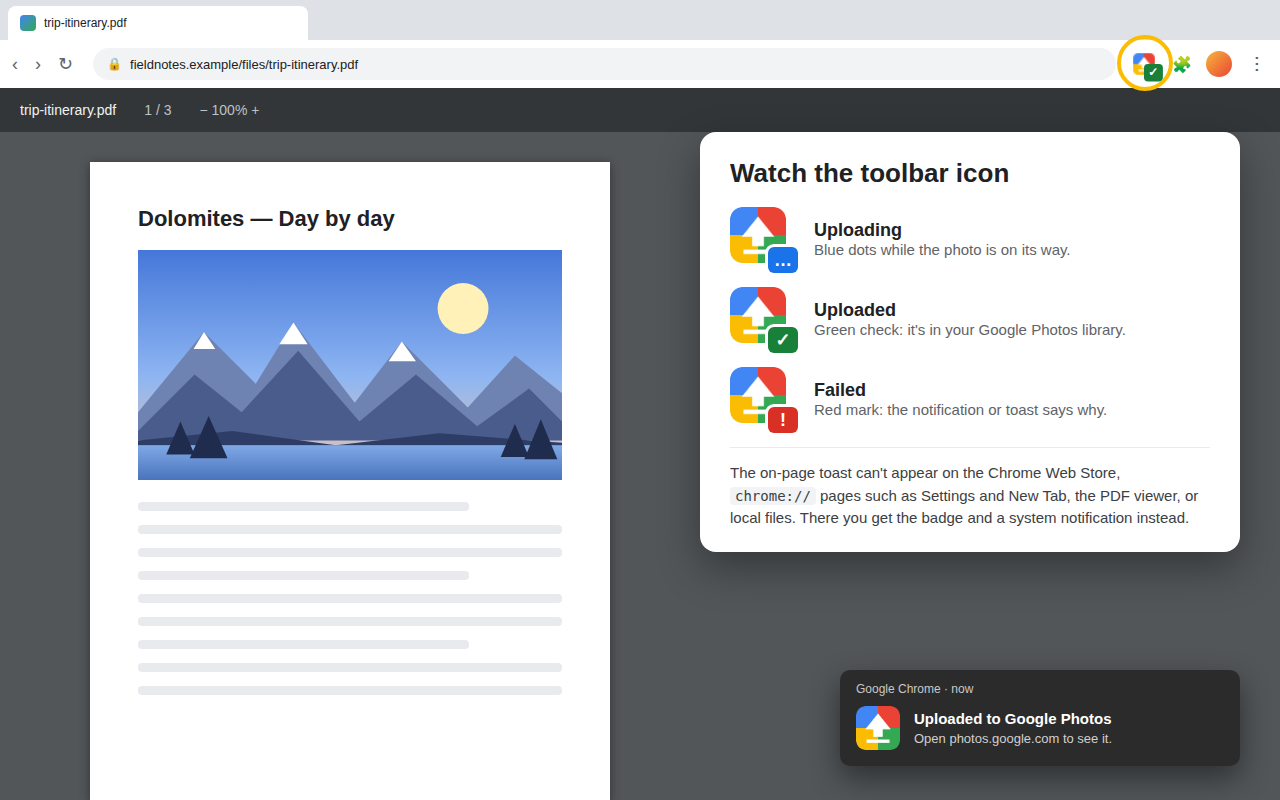
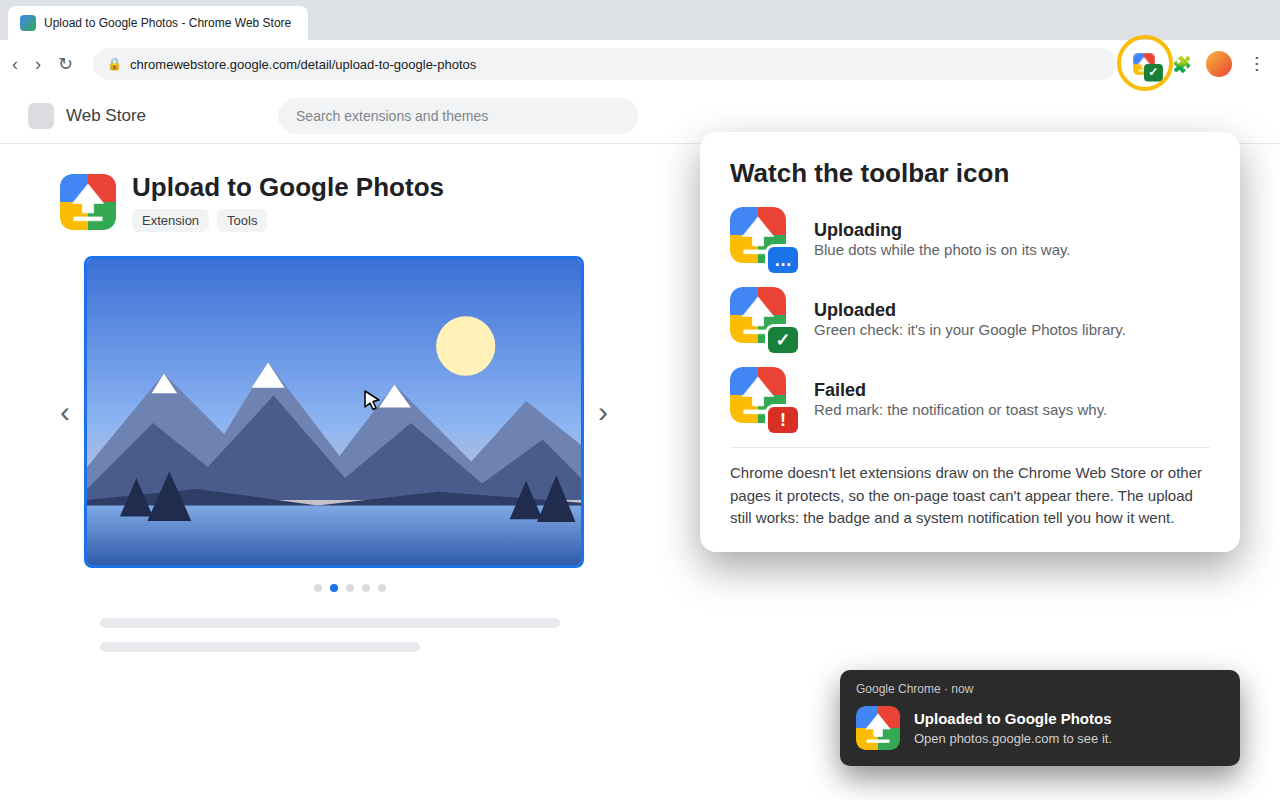
Status screenshot: use the Web Store, not a PDF
The PDF viewer and chrome:// pages were the wrong examples: extension
menu items never appear there, so no upload can start. The Chrome Web
Store is the protected page where the item does appear and only the
toast is blocked. Screenshot 5 now shows a plain store-style listing
(tab title and URL, no Google logos); the description, landing page and
screenshot text say "the Chrome Web Store or other pages Chrome
protects".

Claude-Session: https://claude.ai/code/session_017Sx8ma6MN5wVncfmhbF29b

diff --git a/docs/index.html b/docs/index.html
@@ -28,9 +28,8 @@
     <section>
       <h2>No toast on this page?</h2>
       <p>
-        Chrome doesn't let extensions draw on some pages: the Chrome Web Store,
-        <code>chrome://</code> pages such as Settings and New Tab, the PDF viewer,
-        and local files. The upload still works there. Watch the toolbar icon
+        Chrome doesn't let extensions draw on the Chrome Web Store or other
+        pages it protects. The upload still works there. Watch the toolbar icon
         instead, and a system notification reports the result:
       </p>
       <ul class="badges">

diff --git a/STORE.md b/STORE.md
@@ -147,12 +147,11 @@ tick before **Submit for review** is enabled.
      > invisible layer, use "Upload image under cursor to Google Photos"
      > from the right-click menu instead.
      >
-     > No toast? Chrome doesn't let extensions draw on some pages: the Chrome
-     > Web Store, chrome:// pages such as Settings and New Tab, the PDF viewer
-     > and local files. There, watch the toolbar icon: blue dots while
-     > uploading, a green check when done, a red ! if it failed. A system
-     > notification also reports the result. Pin the icon (puzzle-piece menu →
-     > pin) to always see it.
+     > No toast? Chrome doesn't let extensions draw on the Chrome Web Store or
+     > other pages it protects. The upload still works there: watch the
+     > toolbar icon, which shows blue dots while uploading, a green check when
+     > done and a red ! if it failed, and a system notification reports the
+     > result. Pin the icon (puzzle-piece menu → pin) to always see it.
      >
      > Uses Google's append-only scope: the extension can add photos but
      > cannot read, edit or delete anything in your library. No servers, no
